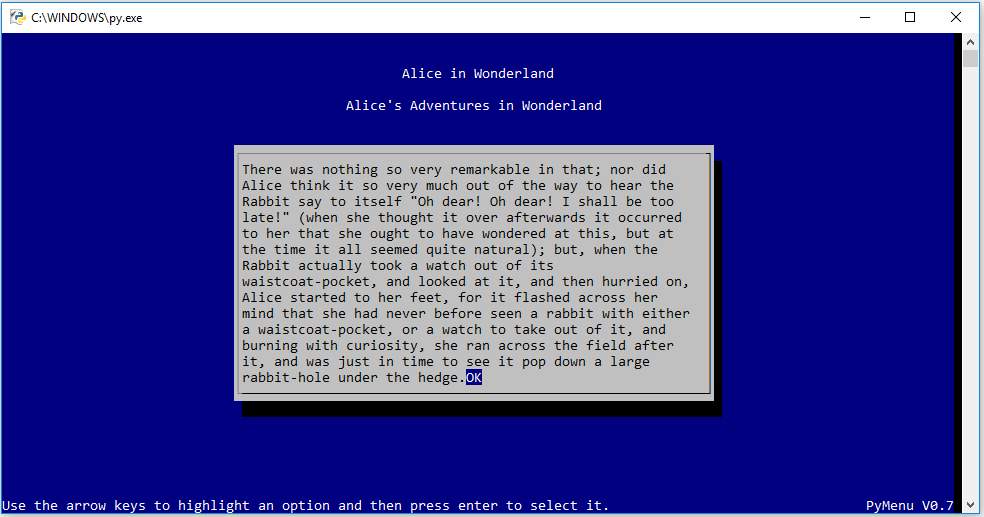
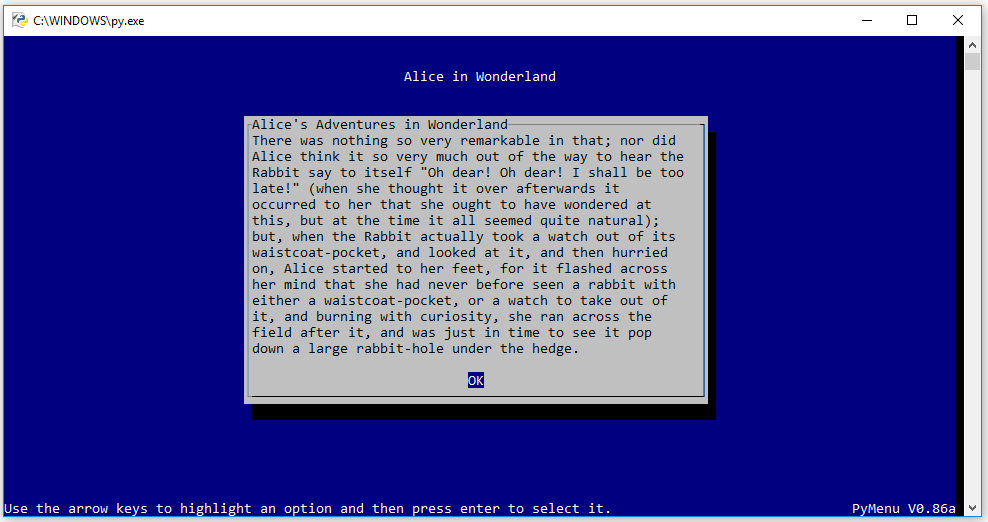
Added dynamic scaling to dialog boxes

Changed region(s): [[0.2134, 0.1857, 0.7317, 0.8046], [0.0, 0.0, 1.0, 1.0], [0.3963, 0.1238, 0.5793, 0.1547]]

diff --git a/pymenu.py b/pymenu.py
@@ -22,6 +22,8 @@ class Menu:
         self.overlay_fg = Fore.BLACK
         self.overlay_style = Style.BRIGHT
 
+        self.msg_style = Style.NORMAL
+
         self.shadow_bg = Back.BLACK
         self.shadow_fg = Fore.WHITE
         self.shadow_style = Style.BRIGHT
@@ -38,7 +40,7 @@ class Menu:
         self.footer_fg = Fore.WHITE
         self.footer_style = Style.BRIGHT
 
-        self.desc_style = Style.BRIGHT
+        self.desc_style = Style.NORMAL
 
         self.accent_fg = Fore.WHITE
         self.accent_style = Style.BRIGHT
@@ -70,20 +72,29 @@ class Menu:
         self.option_width = self.X_MAX // 3
         self.option_height = 1
 
-        self.overlay_width = self.X_MAX // 2
-        self.overlay_height = self.Y_MAX // 2
+        if not self.ok_dialog:
+            self.overlay_width = self.X_MAX // 2
+            self.overlay_height = self.Y_MAX // 2
+        else:
+            wrapped = self.word_wrapped_text(self.dialog_msg)
+            self.overlay_height = len(wrapped) +  4
+            self.overlay_width = len(wrapped[0]) + 4
+            for line in wrapped:
+                if len(line) > self.overlay_width - 2:
+                    self.overlay_width = len(line) + 2
 
         self.overlay_top = (self.Y_MAX // 2) - (self.overlay_height // 2) # top y coord
-        self.overlay_bottom = self.Y_MAX - (self.overlay_height // 2) # bottom y coord
+        self.overlay_bottom = self.overlay_top + self.overlay_height # bottom y coord
 
         self.overlay_left = (self.X_MAX // 2) - (self.overlay_width // 2) # leftmost x coord
-        self.overlay_right = self.X_MAX - (self.overlay_width // 2) # rightmost x coord
+        #self.overlay_right = self.X_MAX - (self.overlay_width // 2) # rightmost x coord
+        self.overlay_right = self.overlay_left + self.overlay_width
 
         self.title_x = (self.X_MAX // 2) - (len(self.title) // 2)
         self.title_y = (self.Y_MAX // 10)
 
-        self.desc_x = (self.X_MAX // 2) - (len(self.desc) // 2)
-        self.desc_y = self.overlay_top - self.title_y
+        self.desc_x = self.overlay_left + 1#self.overlay_right - (self.overlay_width // 2) - (len(self.desc) // 2)#(self.X_MAX // 2) - (len(self.desc) // 2)
+        self.desc_y = self.overlay_top #// 2 + self.title_y // 2
 
         self.msg_x = self.overlay_left + 1
         self.msg_y = self.overlay_top + 1
@@ -130,16 +141,6 @@ class Menu:
         for x in range(self.overlay_left + 1, self.overlay_right + 1):
             self.put([x, self.overlay_bottom], self.shadow_bg + " ")
 
-        # Draw the description at the top of the overlay box
-        if len(self.desc) > self.overlay_width:
-            half = len(self.desc.split()) // 2
-            first_line = " ".join(word for word in self.desc.split()[:half])
-            second_line = " ".join(word for word in self.desc.split()[half:])
-            self.put([self.desc_x, self.desc_y], self.outer_bg + self.outer_fg + self.desc_style + first_line)
-            self.put([self.desc_x, self.desc_y], self.outer_bg + self.outer_fg + self.desc_style + second_line)
-        else:
-            self.put([self.desc_x, self.desc_y], self.outer_bg + self.outer_fg + self.desc_style + self.desc)
-
         # Draw the footer text
         self.put([1, self.Y_MAX-1], self.outer_bg + self.footer_fg + self.footer_style + self.footer_text)
 
@@ -162,28 +163,25 @@ class Menu:
         self.put([self.overlay_left, self.overlay_bottom - 1], self.overlay_bg + Fore.BLACK + Style.BRIGHT + "└")
         self.put([self.overlay_left, self.overlay_top], self.overlay_bg + Fore.BLACK + Style.BRIGHT + "┌")
 
+        # Draw the description at the top of the overlay box
+        if len(self.desc) > self.overlay_width:
+            half = len(self.desc.split()) // 2
+            first_line = " ".join(word for word in self.desc.split()[:half])
+            second_line = " ".join(word for word in self.desc.split()[half:])
+            self.put([self.desc_x, self.desc_y], self.overlay_bg + self.overlay_fg + self.desc_style + first_line)
+            self.put([self.desc_x, self.desc_y], self.overlay_bg + self.overlay_fg + self.desc_style + second_line)
+        else:
+            self.put([self.desc_x, self.desc_y], self.overlay_bg + self.overlay_fg + self.desc_style + self.desc)
+
         if self.dialog_msg:
 
-            s = ""
-            line = 0
-            words = len(self.dialog_msg.split())
-            for index, word in enumerate(self.dialog_msg.split()):
-                word = word.strip()
-                if len(s + word + " ") >= self.overlay_width - 2:
-                    self.put([self.msg_x, self.msg_y + line],
-                             self.overlay_bg + self.overlay_fg + Style.NORMAL + s)
-                    s = word + " "
-                    line += 1
-                elif index + 1 == words:
-                    s += word + " "
-                    self.put([self.msg_x, self.msg_y + line],
-                             self.overlay_bg + self.overlay_fg + Style.NORMAL + s)
-                    line += 1
-                else:
-                    s += word + " "
+            wrapped = self.word_wrapped_text(self.dialog_msg)
+            for i, line in enumerate(wrapped):
+                self.put([self.msg_x, self.msg_y + i],
+                         self.overlay_bg + self.overlay_fg + Style.NORMAL + line)
 
-            # Draw the footer text
-            self.put([1, self.Y_MAX - 1], self.outer_bg + self.footer_fg + self.footer_style + self.footer_text)
+        # Draw the footer text
+        self.put([1, self.Y_MAX - 1], self.outer_bg + self.footer_fg + self.footer_style + self.footer_text)
 
         # Draw the buttons just in case something needs to be changed
         self.draw_buttons()
@@ -273,13 +271,42 @@ class Menu:
         self.is_ok_dialog()
         self.dialog_msg = msg
 
+    def word_wrapped_text(self, text):
+        wrapped_lines = []
+        line = ""
+        #lines_done = 0
+        words = len(text.split())
+        for index, word in enumerate(text.split()):
+            word = word.strip()
+            if len(line + word + " ") >= self.overlay_width - 2:
+                wrapped_lines.append(line)
+                line = word + " "
+                #lines_done += 1
+            elif index + 1 == words:
+                line += word + " "
+                wrapped_lines.append(line)
+            else:
+                line += word + " "
+        return wrapped_lines
+
     def msg(self, text):
         x,y = self.msg_x, self.msg_y
 
-        for j in range(self.overlay_left + 1, self.overlay_right - 1):
-            self.put([j, y], self.overlay_bg + " ")
+        if len(text) > self.overlay_width - 2:
 
-        self.put([x, y], self.overlay_bg + self.overlay_fg + self.overlay_style + text)
+            wrapped_text = self.word_wrapped_text(text)
+            for i, line in enumerate(wrapped_text):
+                for j in range(self.overlay_left + 1, self.overlay_right - 1):
+                    self.put([j, y + i], self.overlay_bg + " ")
+                self.put([x, y + i], self.overlay_bg + self.overlay_fg + self.msg_style + line)
+
+            #wrapped_text = self.word_wrapped_text(text)
+
+        else:
+            for j in range(self.overlay_left + 1, self.overlay_right - 1):
+                self.put([j, y], self.overlay_bg + " ")
+
+            self.put([x, y], self.overlay_bg + self.overlay_fg + self.msg_style + text)
 
 
 

diff --git a/demo2.py b/demo2.py
@@ -9,8 +9,7 @@ if __name__ == "__main__": # A simple menu demonstration will run whenever this 
         sound = False
 
     def test_function():
-        #m.write([m.msg_x, m.msg_y], "Hello, world!")
-        m.msg("Hello, world!")
+        m.msg(" ".join("Hello, world!" for x in range(6)))
 
     def dummy():
         pass
@@ -125,8 +124,17 @@ if __name__ == "__main__": # A simple menu demonstration will run whenever this 
             tm.start()
             pm.redraw()
 
+        def short_msg():
+            tm = Menu("Small Dialog Box", ":)", "")
+            tm.set_dialog_msg(
+                "Blah"
+            )
+            tm.start()
+            pm.redraw()
+
         pm.add("Alice in Wonderland", alice)
         pm.add("Error Message", error_msg)
+        pm.add("Small Dialog Box", short_msg)
         pm.add("Back", pm.quit)
         pm.start()
         m.redraw()
